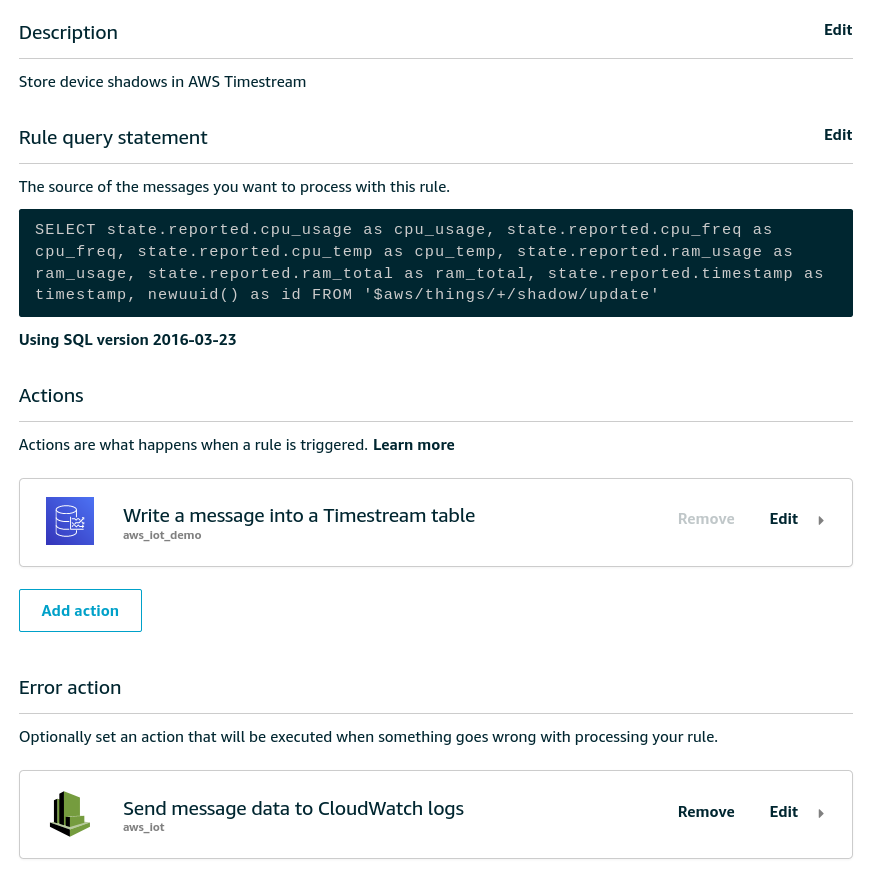
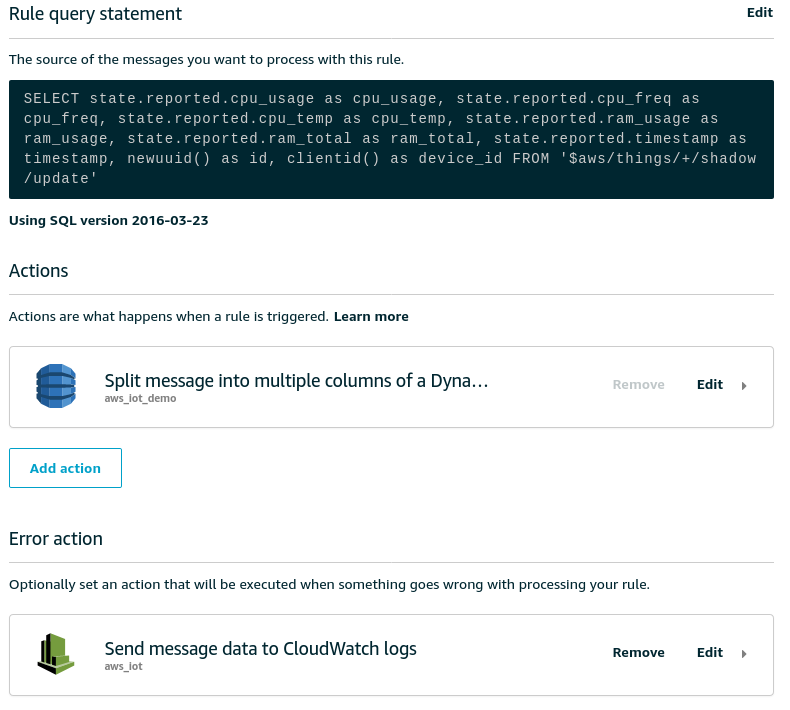
WIP - Needs refactoring to make Timestream the first flow

diff --git a/README.md b/README.md
@@ -12,18 +12,6 @@ A metal-to-alerts example of how to build an IoT enabled monitoring solution usi
 5. Set up a visualisation tool and create dashboards using these updates 
 6. Add a few simple alerts on our visualiation tool to send notifications if system metrics cross a threshold
 
-### Approach #1
-
-PyScript --> AWS_IoT --> AWS_Timestream --> Grafana
-
-### Approach #2
-
-PyScript --> AWS_IoT --> S3 --> QuickSight
-
-### Approach #3
-
-PyScript --> AWS_IoT --> S3 --> Athena --> Redash
-
 ## Git Repo Structure
 
 - `master` = final code + AWS IoT configuration + Grafana dashboard JSON
@@ -67,7 +55,7 @@ Now, we will add in the ability to send our metrics to AWS IoT. But first, we ne
 
 We will register the devices individually via the AWS Console. However, if you have a large number of devices to register, you may want to script it or use [Bulk Registration](https://docs.aws.amazon.com/iot/latest/developerguide/provision-template.html) via `aws-cli` or the AWS IoT Core Console. 
 
-> We are using `us-east-1` aka N. Virginia for integration later with AWS Timestream which is not yet available in all regions.
+> We are using `us-east-1` aka N. Virginia for integration later with Amazon Timestream which is not yet available in all regions.
 
 1. Click on `Create a single thing`
    1. Give your thing a name, e.g. `my_iot_device_1`
@@ -129,7 +117,20 @@ This is an easy one, open up multiple terminals/tabs and start a separate proces
 
 In order to visualise, and perhaps analyse, these metrics, we need to persist them in some form of database. Thankfully, AWS IoT has a [Rules Engine](https://docs.aws.amazon.com/iot/latest/developerguide/iot-rules.html) designed for just this purpose. The Rules Engine is essentially a message router with the ability to filter messages using an SQL syntax and send them to various destiations.
 
-Go to `AWS IoT Core -> Act -> Rules` to get started. Since we are trying to persist device shadows, our SQL filter will look like this:
+Go to `AWS IoT Core -> Act -> Rules` to get started. 
+
+There are 2 steps to enabling rules:
+1. Filter: Select the messages we want to act on.
+2. Act: Select the action(s) we want to run for each filtered message.
+
+### Filter
+
+AWS IoT uses a reduced [SQL syntax](https://docs.aws.amazon.com/iot/latest/developerguide/iot-sql-reference.html) for filtering messages. Points to note:
+
+- The [shadow topic](https://docs.aws.amazon.com/iot/latest/developerguide/device-shadow-mqtt.html#update-pub-sub-topic) we are interested in is `$aws/things/thingName/shadow/update` where we need to replace `thingName` with the wildcard `+`. Follow [this reference](https://docs.aws.amazon.com/iot/latest/developerguide/topics.html) on topics and wildcards.
+- The content of each message contains the entire `state` with `desired` and `reported` properties as well as other metadata. We will need to unpack the `reported` property to get the data we need. Follow [this reference](https://docs.aws.amazon.com/iot/latest/developerguide/iot-sql-select.html) for more details.
+
+Our SQL filter will look essentially like this:
 
 ```sql
 SELECT 
@@ -139,45 +140,142 @@ SELECT
   state.reported.ram_usage as ram_usage,
   state.reported.ram_total as ram_total,
   state.reported.timestamp as timestamp,
+  clientid() as device_id,
   newuuid() as id
 FROM '$aws/things/+/shadow/update'
 ```
 
-Before we can save this rule, we will also need to add an `action`. Actions define what to do with the filtered messages. This depends on our choice of database. We will start by using the AWS PaaS offering for time series data, [Timestream DB](https://aws.amazon.com/timestream/).
+**Notes**
 
-### Timestream DB
+- We are inserting the device_id using a [built-in SQL function](https://docs.aws.amazon.com/iot/latest/developerguide/iot-sql-functions.html) `clientid()`. We will need this for some of our Actions.
+- We are inserting a new field called id into our dataset for use with some specific data persistence options. We will discuss these later. For now, feel free to skip it.
+
+Before we can save this rule, we will also need to add an `action`. Actions define what to do with the filtered messages. This depends on our choice of database. 
+
+### Act
+
+AWS IoT supports a large range of actions out of the box including CloudWatch, DynamoDB, ElasticSearch, Timestream DB and custom HTTP endpoints. See the [full list here](https://docs.aws.amazon.com/iot/latest/developerguide/iot-rule-actions.html).
+
+To confirm that our messages are coming through and we will be able to store them, we will use the `DynamoDBv2` action. We will also enable the `CloudWatch` action in case of errors.
+
+#### DynamoDBv2
+
+This action stores the metrics (`cpu_usage`, `cpu_freq` etc) in separate columns in the table. Use the guided flow to create the `aws_iot_demo` table and assign permissions. Use `id` as the `primaryKey` and skip the `sortKey`.
+
+#### CloudWatch
+This action is triggered if/when there is an error while processing our rule. Again, follow the guided wizard to create a new `Log Group` and assign permissions.
+
+At the end, your rule should look something like this:
+
+![AWS IoT Rule Summary](4_aws_iot_action_summary.png)
+
+
+## 5 - Verification
+
+Now, if you start the simulators again, you will see your DynamoDB table start to fill up. Here's what it should look like:
+
+![DynamoDB Table With IoT Data](5_aws_dynamodb.png)
+
+
+## Pause For Breath
+
+We have covered a lot of ground. So, let's pause and reflect. Here's what we have done so far:
+
+1. Created a Python script to monitor common system metrics.
+2. Hooked up this script to AWS IoT using the SDK and `Thing` certificates.
+3. Simulated running multiples of these devices with sending a `Shadow` update.
+4. Created a rule to persist these device shadows to `DynamoDB` and errors to `CloudWatch`.
+5. Verified that we are actually getting our data.
+
+
+Here's the kicker, though. DynamoDB is *not* a great service to use for storing time series data. Querying can be quite slow and rich queries are **very** inconvenient despite the presence of third party efforts like [DQL](https://dql.readthedocs.io/en/latest/). So, in the next couple of sections we will evaluate our options for *actually using* the data our devices are generating. 
+
+With a fresh cup of coffee, onwards...
+
+## 6 - Storage and Visualisation
+
+Storage and visualisation are, in fact, two separate operations that need two different software tools. However, these are often so tightly coupled that choice of one often dictates choice of the other. Here's a handy table that illustrates this with comments.
+
+| Storage | Visualisation | Comments  |
+| ---     | ---                   | ---       |
+| DynamoDB | AWS QuickSight | Needs CSV export to S3 first |
+| DynamoDB | Redash | Works via DQL, see demo below |
+| Timestream | AWS QuickSight | Fidgety, see demo below |
+| Timestream | Grafana | Buggy?, see demo below |
+| ElasticSearch | Kibana | Works well, see demo below |
+| ElasticSearch | Grafana | Simpler to just use Kibana |
+| InfluxDB | InfluxDB UI | WIP |
+| InfluxDB | Grafana | Simpler to just use the built-in UI |
+
+There are, of course, numerous other ways to do this. Our goal is to compare some of the more obvious options and, perhaps, pick one that works well.
+
+### DyanamoDB + ReDash
+
+Since we already have data in DynamoDB, let's try and use it for querying and visualisations. We will use [Redash](https://redash.io/), an open source Python based BI tool. There's a cloud hosted version but I already have it running locally via Docker so I am going to use that instead. I won't cover setting up Redash locally, you can follow their [installation instructions](https://redash.io/help/open-source/setup#docker) and or just sign up for a cloud trial. FWIW, I am on version `8.0.0+b32245`.
+
+Connecting to DynamoDB is pretty straightforward:
+
+1. Add a `New Data Source` and search for `DynamoDB (with DQL)`
+2. Enter a `Name`, `Access Key`, `Region` and `Secret Key`.
+3. Save and click on `Test Connection` to ensure you are connected.
+
+![Redash DynamoDB Data Source](6_redash_dynamodb.png)
+
+Next, create a `New Query`. The simplest query to try out is `SCAN * FROM aws_iot_demo;`. In case you are wondering the `SCAN` keyword, check out the [DQL documentation](https://dql.readthedocs.io/en/latest/topics/queries/scan.html). 
+
+> Despite creating indices on the DynamoDB table and following the DQL documentation, I could not get `SELECT` working.
+
+This query will return ALL the data from our table. Careful when running on large tables! There *may* be some row limits imposed by either DQL or the AWS API. However, `SCAN` operations are quite slow as you can see from the screenshot below.
+
+![Redash DynamoDB Query](6_redash_dynamodb_query.png)
+
+Nonetheless, we have our data and we can quickly visualise it:
+
+1. Click on `New Visualisation`. 
+2. Select `Line` for `Chart Type`
+3. Select `timestamp` for `X Column` and also, on the `X Axis` tab, change the `Scale` to `Datetime` from the default `Auto Detect`.
+4. Select `cpu_usage` for `Y Columns` and `device_id` for `Group By`. Ensure `Show Legend` is checked.
+5. Play around with the other settings and see what you like. 
+
+Once you are done, you will see something that looks like this - 
+
+![Redash Chart](6_redash_chart.png)
+
+Uh, oh. Redash thinks our `timestamp` belongs to January, 1970. This is because Redash is expecting `milliseconds` and we are sending `seconds`. We could change our script and send milliseconds instead or even modify the timestamp within our AWS IoT Rule SQL query. However, I am trying to configure this within Redash. If/once I am able to figure this out, I will update this section.
+
+You can create charts for the other metrics too and add them all to a Dashboard:
+
+![Redash Dashboard](6_redash_dashboard.png)
+
+Nice! Our first IoT dashboard that can refresh in realtime :-). If you use the cloud version of Redash and don't mind the slow query speeds with DynamoDB, you have a highly scalable end-to-end solution! However, this setup will get slower with time and very expensive unless you archive old data within DynamoDB.
+
+### Timestream DB + QuickSight / Grafana
 
 As of this writing Timestream is only available in 4 regions. 
 
 ![Timestream Regions](aws_timestream_regions.png)
 
-It's **essential** to create the DB in the same region as your AWS IoT endpoint as the Rules Engine does not, yet, support multiple regions for the built-in actions. _You could use a Lambda function to do this for you but that's more management and cost._
+It's **essential** to create the DB in the same region as your AWS IoT endpoint as the Rules Engine does not, yet, support multiple regions for the built-in actions. _You could use a Lambda function to do this for you but that's more management and cost.
 
 We will create a `Standard` (empty) DB with the name `aws_iot_demo`: 
 
-![Create Timestream DB](4_create_timestream.png)
+![Create Timestream DB](6_create_timestream_db.png)
 
 We will also need a `table` to store our data, so let's do that too:
 
-![Create Timestream Table](4_create_timestream_table.png)
+![Create Timestream Table](6_create_timestream_table.png)
 
-Once this is done, we can return to the rule we were setting up and add the Action.
+Once this is done, we can return to the rule we set up earlier and add a new Action.
 
 Notes: 
 - The AWS IoT Rule Action for Timestream needs at least one [`dimension`](https://docs.aws.amazon.com/iot/latest/developerguide/timestream-rule-action.html) to be specified. Dimensions can be used for grouping and filtering incoming data. 
 - I used the following `key`:`value` pair using a substitution template - `device_id`: `${clientId()}` 
+  - This conflicts with the `device_id` we are adding in the SQL query. So, either remove that or use a different key name here. 
 - We are sending the device timestamp as part of the shadow update. I couldn't figure out how to use this as the timestamp in Timestream so I used `${timestamp()}` within the Rule Action. This generates a server timestamp.
 - You will also need to create or select an appropriate IAM role that lets AWS IoT to write to Timestream.
 - Timestream (like InfluxDB) creates separate rows for each metric so each shadow update creates 7 rows. 
 
-#### Add an error action
-To help debug if things don't go wrong (incorrect permissions, invalid data etc), we will add an Error Action that logs to CloudWatch Logs.
-
-Once we are done adding the actions, our rule will look something like this:
-
-![AWS IoT Rule Summary](4_aws_iot_action_summary.png)
-
-### Query Timestream
+#### Query Timestream
 
 Assuming we have started our simulators again, we should start to see data being stored in Timestream. Go over to AWS Console -> Timestream -> Tables ->  `aws_iot_demo` -> Query Table. Type in the following query:
 
@@ -188,7 +286,7 @@ SELECT * FROM "aws_iot_demo"."aws_iot_demo" WHERE time between ago(15m) and now(
 
 You should see output similar to the one below:
 
-![Timestream Query Output](4_timestream_query_output.png)
+![Timestream Query Output](6_timestream_query_output.png)
 
 If you do, you are in business and we can continue to visualisation. If you don't,
 
@@ -197,6 +295,40 @@ If you do, you are in business and we can continue to visualisation. If you don'
 - Ensure your Rule action has the right table and an appropriate IAM Role
 - Verify that your Device Shadow is getting updated by going over to AWS IoT -> Things -> my_iot_device_1 -> Shadow
 - Looking for errors if any on the terminal where you are running the script.
+
+#### Dashboards Using AWS Quicksight
+
+Quicksight is a managed BI tool from AWS. The [official documentation](https://docs.aws.amazon.com/timestream/latest/developerguide/Quicksight.html) to integrate Timestream with Quicksight is a little dense. However, it's pretty straightforward if you are using `us-east-1` as your region. 
+
+1. Within Quicksight, click on the user icon at the top right and then on `Manage Quicksight`.
+2. Here, go to `Security & Permissions` -> `Quicksight access to AWS services` and enable `Timestream` (see image below).
+3. Next, within Quicksight, click on `New Dataset` and select `Timestream`. Click on `Validate Connection` to ensure you have given the permissions and confirm.
+4. Upon confirmation, select `aws_iot_demo` from the discovered databases and select `aws_iot_demo` from the tables.
+
+So far so good. This is where it gets quite complex. This is what my dashboard looks like after about 5-10 minutes of fiddling:
+
+![QuickSight Timestream Dashboard](6_timestream_quicksight_dashboard.png)
+
+Simple bar charts are easy to. However, I believe, to get time series charts working we will need to use a custom query instead of the `aws_iot_demo` table in `Step 4` above. The [documentation and examples](https://docs.aws.amazon.com/timestream/latest/developerguide/sample-queries.iot-scenarios.html#sample-queries.iot-scenarios.example-queries) for complex Timeseries queries are a little involved, so I might return to this later.
+
+
+#### Dashboards & Alerts Using Grafana
+
+AWS has an upcoming managed [Grafana service](https://aws.amazon.com/grafana/). Until then, we will use the managed service from [Grafana.com](https://grafana.com). You could also spin up Grafana locally or on a VM somewhere with the [docker image](https://grafana.com/docs/grafana/latest/installation/docker/).
+
+Assuming you have either signed up for Grafana Cloud or installed it locally, you should now:
+
+- Install the [Amazon Timestream plugin](https://grafana.com/grafana/plugins/grafana-timestream-datasource/installation)
+- Back in Grafana, add a new `Data Source` and search for `Timestream`. 
+- For authentication, we will use Access Key and Secret for a new IAM User.
+  - Back in AWS, create a new user with the ~`AmazonTimestreamReadOnlyAccess` policy attached~ `admin` rights. For some reason, Grafana would not connect to Timestream even with the `AmazonTimestreamFullAccess` policy attached.  
+- Once the keys are in place, click on `Save & Test`
+- Select `aws_iot_demo` in the `$_database` field to set up the default DB. Try as I might, I could not get the dropdown for `$_table` to populate.
+
+![Grafana Timestream Settings](6_grafana_timestream_settings.png)
+
+Now, click on `+ -> Dashboard` and `+ Add new panel` to get started.
+
 
 ## TODO
 - [x] Add LICENSE
